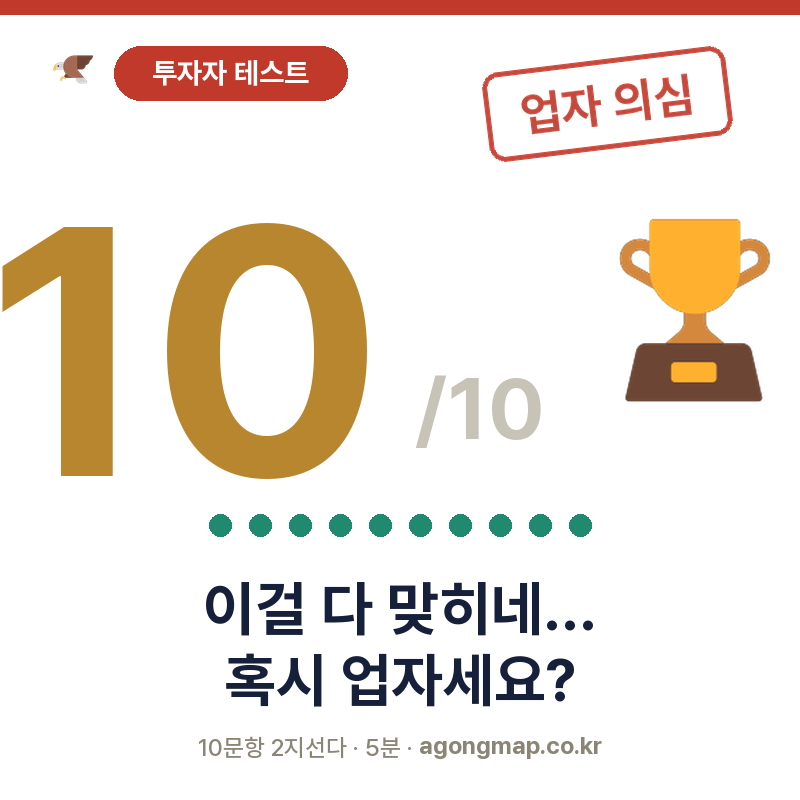
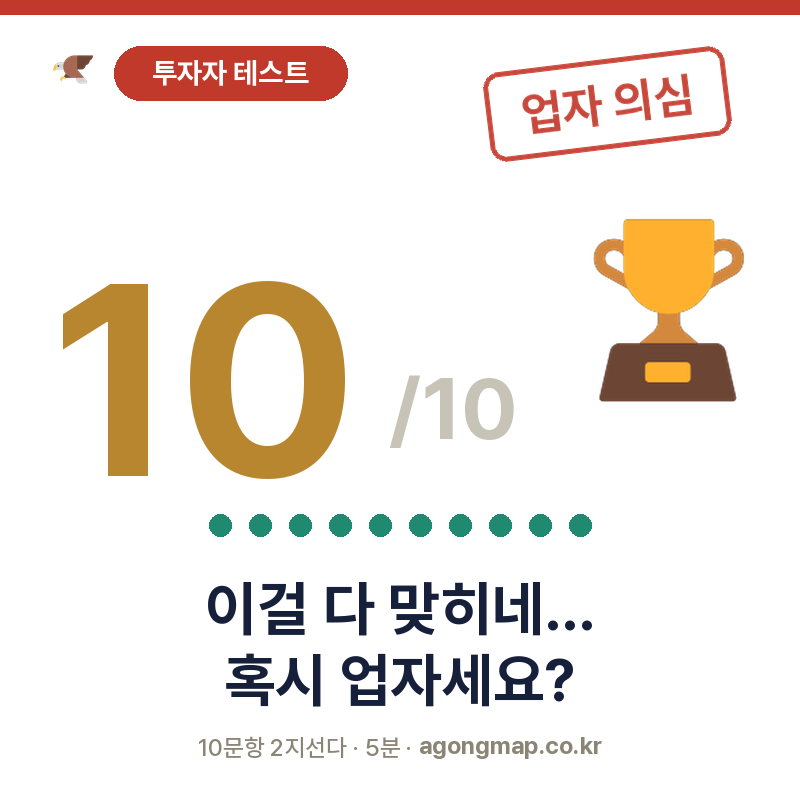
투자자 만점 공유 카드의 숫자 줄을 좌우 여백 안으로 — 두 자리 점수는 폭에 맞춰 줄이고 가운데 정렬, investor-10.png 다시 굽기 (전수리뷰 P-5)
티어 구간은 QUIZSETS.investor.grade 하한, 분모·미터·꼬리말 문항 수는 QUIZ_LEN 에서 읽는다(P-9 카드 부분).
0~9점 카드는 같은 환경에서 옛 코드와 새 코드 출력이 픽셀까지 같아 다시 굽지 않았다.
변이 확인: 여백 맞춤 갈래를 지우면 test_investor_score_row_stays_inside_the_card_margins 의 도구 갈래가, 저장소
investor-10.png 를 옛 그림으로 되돌리면 저장소 갈래가 빨개진다.

Claude-Session: https://claude.ai/code/session_01Cnk2ohfzHBhdN4H67VPrTj

diff --git a/tools/make_investor_cards.py b/tools/make_investor_cards.py
@@ -1,7 +1,10 @@
 # -*- coding: utf-8 -*-
 """투자자 테스트 점수별 공유 카드 11장 (800x800).
 
-문구는 index.html QUIZSETS.investor와 톤을 맞춘다. 둘 중 하나를 고치면 같이 볼 것.
+문구는 home-quiz.js QUIZSETS.investor(home_src 로 읽는다)와 톤을 맞춘다. 둘 중 하나를 고치면 같이 볼 것.
+티어 구간(점수 하한)은 QUIZSETS.investor.grade 에서, 점수 분모·미터 칸·장 수·꼬리말 'N문항'은 QUIZ_LEN 에서 읽는다(전수리뷰 P-9).
+숫자 줄(점수 + '/N' + 이모지)이 카드 좌우 여백(SIDE) 안에 들지 않으면 숫자를 폭에 맞춰 줄이고 줄 전체를 가운데 둔다 —
+예전엔 두 자리 '10'의 줄 폭이 790px 라 큰 숫자가 x=2 부터 찍혀 카드 왼쪽 끝에 붙었다(전수리뷰 P-5).
 이모지는 폰트(OS)에 의존하지 않도록 art_raw/emoji/ 에 PNG로 번들해 합성한다.
 
 사용:  python tools/make_investor_cards.py
@@ -11,6 +14,7 @@ from PIL import Image, ImageDraw
 
 sys.path.insert(0, os.path.dirname(os.path.abspath(__file__)))
 from make_beginner_cards import noto  # noqa: E402  (번들 폰트 로더 공유)
+import home_src as HS  # noqa: E402  (퀴즈 정본 — QUIZ_LEN·grade)
 
 W = H = 800
 BG = (255, 255, 255)
@@ -28,14 +32,30 @@ SCORE_COLORS = [
     (184, 134, 47),
 ]
 
-# 티어별 (도장 문구, 도장 색, 문구 2줄, 이모지 파일)
-TIERS = [
-    (range(0, 3),  '거꾸로 독법', (197, 73, 60),   ['호재를 악재로', '읽고 계시네요'],       'compass'),
-    (range(3, 5),  '재도전 요망', (197, 73, 60),   ['부동산 뉴스,', '헤드라인만 보셨죠?'],   'sweat'),
-    (range(5, 7),  '반쯤 고수',   (220, 162, 20),  ['감은 있어요.', '계약은 아직 이르지만'], 'moon'),
-    (range(7, 9),  '고수 인정',   (49, 146, 122),  ['머릿속엔 이미', '다주택자시네요'],      'cool'),
-    (range(9, 11), '업자 의심',   (197, 73, 60),   ['이걸 다 맞히네...', '혹시 업자세요?'],   'trophy'),
+SIDE = 50                      # 숫자 줄의 좌우 여백(다른 요소 — 독수리 x=49 — 와 같은 선)
+
+# 티어별 (도장 문구, 도장 색, 문구 2줄, 이모지 파일) — 낮은 등급부터. 구간은 QUIZSETS.investor.grade 의 하한에서 나온다(tiers()).
+TIER_ART = [
+    ('거꾸로 독법', (197, 73, 60),   ['호재를 악재로', '읽고 계시네요'],       'compass'),
+    ('재도전 요망', (197, 73, 60),   ['부동산 뉴스,', '헤드라인만 보셨죠?'],   'sweat'),
+    ('반쯤 고수',   (220, 162, 20),  ['감은 있어요.', '계약은 아직 이르지만'], 'moon'),
+    ('고수 인정',   (49, 146, 122),  ['머릿속엔 이미', '다주택자시네요'],      'cool'),
+    ('업자 의심',   (197, 73, 60),   ['이걸 다 맞히네...', '혹시 업자세요?'],   'trophy'),
 ]
+
+
+def tiers(src=None):
+    """[(점수 구간 range, 도장, 색, 두 줄, 이모지)] — 구간은 QUIZSETS.investor.grade 하한, 끝은 QUIZ_LEN."""
+    src = HS.home_source() if src is None else src
+    los = [g[0] for g in HS.quiz_grades('investor', src)]
+    if len(los) != len(TIER_ART):
+        raise SystemExit('투자자 등급 %d개, 카드 티어 %d개 — TIER_ART 를 등급 수에 맞출 것' % (len(los), len(TIER_ART)))
+    ends = los[1:] + [HS.quiz_len(src) + 1]
+    return [(range(a, b),) + art for a, b, art in zip(los, ends, TIER_ART)]
+
+
+TIERS = tiers()
+QUIZ_N = HS.quiz_len()
 
 ART = os.path.join(os.path.dirname(os.path.dirname(os.path.abspath(__file__))), 'art_raw', 'emoji')
 
@@ -103,29 +123,42 @@ def make_card(score, out):
     st = stamp_img(stamp, scol)
     im.paste(st, (int(608 - st.width / 2), int(104 - st.height / 2)), st)
 
-    # 숫자 + /10  (아래 정렬, 그룹 중심 x≈265)
-    num = str(score)
+    # 숫자 + /N  (아래 정렬, 그룹 중심 x≈265)
+    num, frac = str(score), '/%d' % QUIZ_N
     fnum = fit_h(num, 256, 'Bold')
-    fsl = fit_h('/10', 73, 'Bold')
+    fsl = fit_h(frac, 73, 'Bold')
     bn = d.textbbox((0, 0), num, font=fnum)
-    bs = d.textbbox((0, 0), '/10', font=fsl)
+    bs = d.textbbox((0, 0), frac, font=fsl)
     nw, sw = bn[2] - bn[0], bs[2] - bs[0]
-    gap = 32
+    gap, egap = 32, 70
+    p = os.path.join(ART, '%s.png' % emo)
+    e = Image.open(p).convert('RGBA') if os.path.exists(p) else None
+    ew = e.width if e is not None else 0
     gx = 265 - (nw + gap + sw) / 2            # 그룹 왼쪽
+    if gx < SIDE or gx + nw + gap + sw + egap + ew > W - SIDE:
+        # 두 자리 점수: 줄(숫자·분모·이모지)이 여백 안에 들게 숫자를 폭으로 맞추고 줄 전체를 가운데 둔다
+        room = W - 2 * SIDE - (gap + sw + egap + ew)
+        lo, hi = 8, fnum.size
+        while lo < hi:
+            mid = (lo + hi + 1) // 2
+            b = d.textbbox((0, 0), num, font=noto(mid, 'Bold'))
+            lo, hi = (mid, hi) if b[2] - b[0] <= room else (lo, mid - 1)
+        fnum = noto(lo, 'Bold')
+        bn = d.textbbox((0, 0), num, font=fnum)
+        nw = bn[2] - bn[0]
+        gx = (W - (nw + gap + sw + egap + ew)) / 2
     d.text((gx - bn[0], 479 - bn[3]), num, font=fnum, fill=SCORE_COLORS[score])
-    d.text((gx + nw + gap - bs[0], 448 - bs[3]), '/10', font=fsl, fill=SLASH)
+    d.text((gx + nw + gap - bs[0], 448 - bs[3]), frac, font=fsl, fill=SLASH)
 
     # 이모지 (숫자 오른쪽)
-    p = os.path.join(ART, '%s.png' % emo)
-    if os.path.exists(p):
-        e = Image.open(p).convert('RGBA')
-        ex = int(gx + nw + gap + sw + 70)
+    if e is not None:
+        ex = int(gx + nw + gap + sw + egap)
         im.paste(e, (ex, int(310 - e.height / 2)), e)
 
-    # 점 미터 (10개)
+    # 점 미터 (QUIZ_N 개)
     r, sp = 11, 40
-    x0 = 400 - (9 * sp) / 2
-    for i in range(10):
+    x0 = 400 - ((QUIZ_N - 1) * sp) / 2
+    for i in range(QUIZ_N):
         cx = x0 + i * sp
         d.ellipse([cx - r, 525 - r, cx + r, 525 + r], fill=METER_ON if i < score else METER_OFF)
 
@@ -140,9 +173,8 @@ def make_card(score, out):
     draw_centered(d, 400, 680, lines[1], f2, INK)
 
     # 푸터
-    full = '10문항 2지선다 · 5분 · agongmap.co.kr'
-    ffoot = fit_h(full, 25, 'Medium')
-    left, right = '10문항 2지선다 · 5분 · ', 'agongmap.co.kr'
+    left, right = '%d문항 2지선다 · 5분 · ' % QUIZ_N, 'agongmap.co.kr'
+    ffoot = fit_h(left + right, 25, 'Medium')
     fb = noto(ffoot.size, 'Bold')
     lw = d.textbbox((0, 0), left, font=ffoot)[2] - d.textbbox((0, 0), left, font=ffoot)[0]
     rw = d.textbbox((0, 0), right, font=fb)[2] - d.textbbox((0, 0), right, font=fb)[0]
@@ -160,6 +192,6 @@ if __name__ == '__main__':
     root = os.path.dirname(os.path.dirname(os.path.abspath(__file__)))
     share = os.path.join(root, 'share')
     os.makedirs(share, exist_ok=True)
-    for s in range(11):
+    for s in range(QUIZ_N + 1):
         make_card(s, os.path.join(share, 'investor-%d.png' % s))
-    print('11 cards written -> %s' % share)
+    print('%d cards written -> %s' % (QUIZ_N + 1, share))

diff --git a/tools/tests/test_quiz_share.py b/tools/tests/test_quiz_share.py
@@ -175,3 +175,37 @@ def test_card_badges_and_names_follow_the_result_grade(tmp_path, monkeypatch):
     n_lv = len({lv for lv, _ in o['calc']})
     assert o['calc'][top][0] in drawn and '/ %d' % n_lv in drawn, ('재건축 만점 카드 배지가 %s / %d 가 아니다' % (o['calc'][top][0], n_lv), drawn)
     assert '/%d' % top in drawn and o['calc'][top][1] in drawn, drawn
+
+
+def _side_ink(img, band=(200, 483), side=50):
+    """숫자 띠(y band)에서 좌우 side 픽셀 안에 찍힌 흰색 아닌 칸 수."""
+    im = img.convert('RGB').crop((0, band[0], img.width, band[1]))
+    w, h = im.size
+    px = im.load()
+    return sum(1 for y in range(h) for x in list(range(side)) + list(range(w - side, w)) if px[x, y] != (255, 255, 255))
+
+
+def test_investor_score_row_stays_inside_the_card_margins(tmp_path):
+    """투자자 공유 카드의 숫자 줄(점수·'/N'·이모지)이 좌우 50px 여백 안에 든다 — 저장소의 카드 0~QUIZ_LEN점과 도구가 지금 굽는 만점 카드 둘 다.
+
+    재현한 실제 상태(2026-10-18): 두 자리 '10'은 줄 폭이 790px 라 그룹 왼쪽이 x=-14, 큰 숫자 잉크가 x=2 부터 찍혀 카드 왼쪽 끝에 붙었다
+    (share/investor-10.png, kakaoFeed·/investor-test/10/ og:image). 한 자리 점수 카드는 잉크가 82px 부터라 정상이었다.
+    변이(실제로 확인): make_investor_cards.make_card 의 '여백 안에 들게 줄이는' 갈래를 지우면 도구 갈래가, 저장소 share/investor-10.png 를
+    옛 그림으로 되돌리면 저장소 갈래가 빨개진다.
+    픽스처: 저장소 share/investor-*.png 와 실제 카드 도구(번들 글꼴)로 tmp 에 구운 만점 카드.
+    """
+    from PIL import Image
+    import make_investor_cards as MI
+    top = HS.quiz_len()
+    root = os.path.join(os.path.dirname(os.path.abspath(__file__)), '..', '..')
+    bad = []
+    for s in range(top + 1):
+        n = _side_ink(Image.open(os.path.join(root, 'share', 'investor-%d.png' % s)))
+        if n:
+            bad.append(('share/investor-%d.png' % s, n))
+    out = tmp_path / 'inv.png'
+    MI.make_card(top, str(out))
+    n = _side_ink(Image.open(str(out)))
+    if n:
+        bad.append(('make_card(%d)' % top, n))
+    assert not bad, '숫자 줄이 카드 좌우 여백을 침범한다(점 수): %s' % bad
